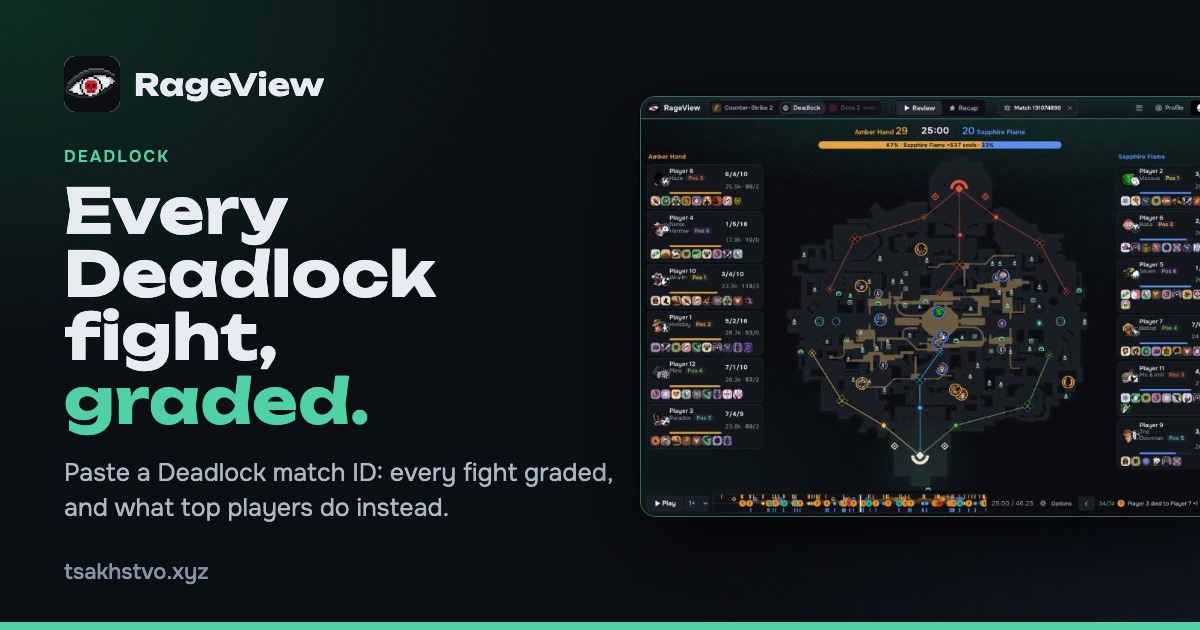
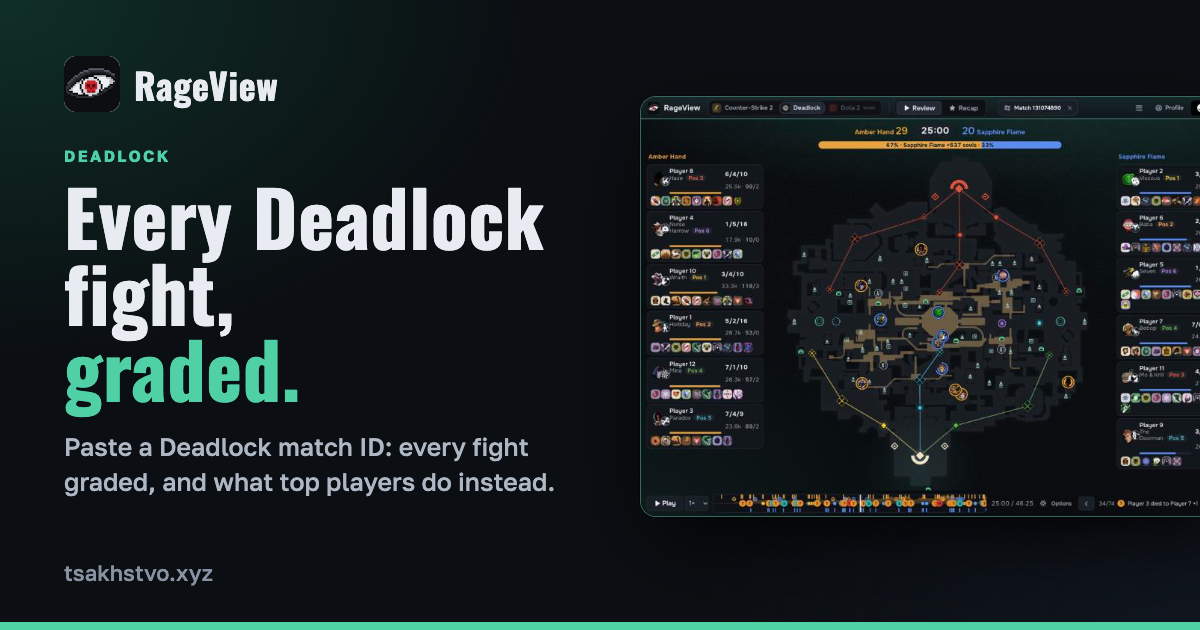
SEO: own titles for review and tactical pages, JSON-LD and preview pictures for Dota 2, Puzzles and Pricing, a Dota 2 line in llms.txt

diff --git a/src/site/InfoPages.tsx b/src/site/InfoPages.tsx
@@ -54,6 +54,7 @@ export function Privacy() {
 /** Newest first: what changed for players (not the internals). */
 const CHANGES: { date: string; items: string[]; shot?: { src: string; alt: string } }[] = [
   { date: 'Nov 23, 2026', items: [
+    'Link previews and search: Review, Tactical and the Deadlock review page have their own titles, Dota 2, Puzzles and Pricing have their own preview pictures and structured data, and llms.txt now says what the Dota 2 page does.',
     'Profile: trend lines run straight between your matches (no overshoot) and the average label sits beside the line, a stat tile\'s scale stops at the 95th percentile so one outlier match no longer squashes the rest (the outlier bar carries a ▲), and the biggest-leak card keeps its content together.',
     'Replay polish: at 1200 px the kill feed starts below the round strip instead of under it, a long nickname on the move card is cut with an ellipsis (the sentence takes at most two lines), and the date in your match list stays on one line.',
     'The recap\'s numbers are fixed: no move is worth more than 100% of the win chance (a "−103%" death is now −100%), the chance line says "Ahead most of the match · one dip at R21" when that is what it shows, the grade has a line saying why, and the game rating says what it is.',
